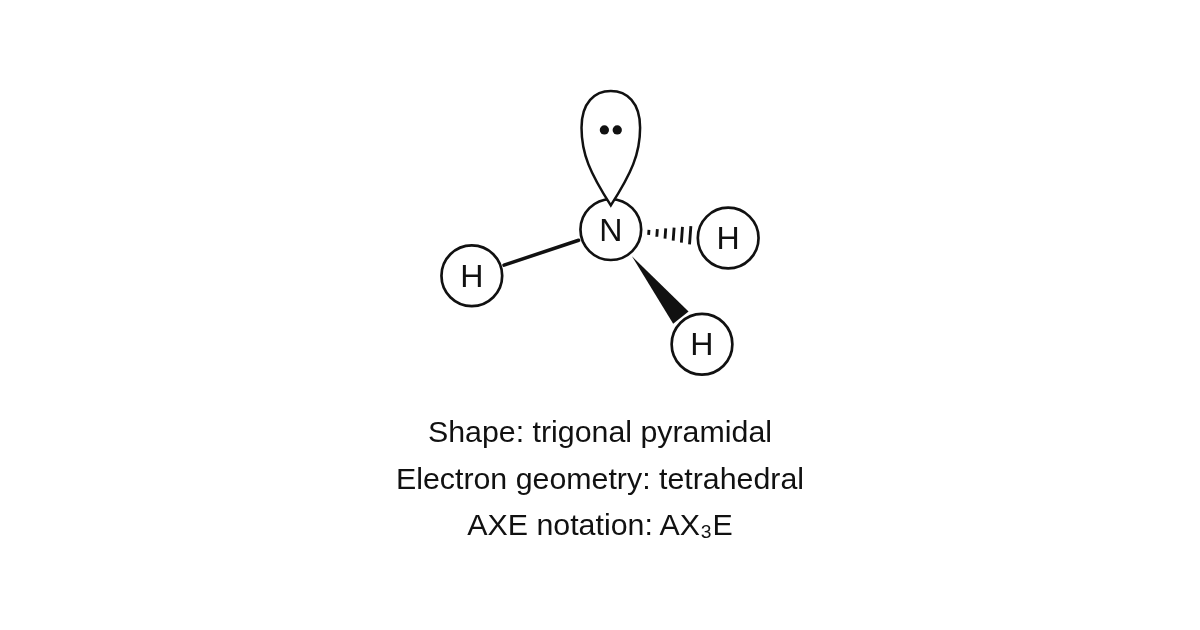
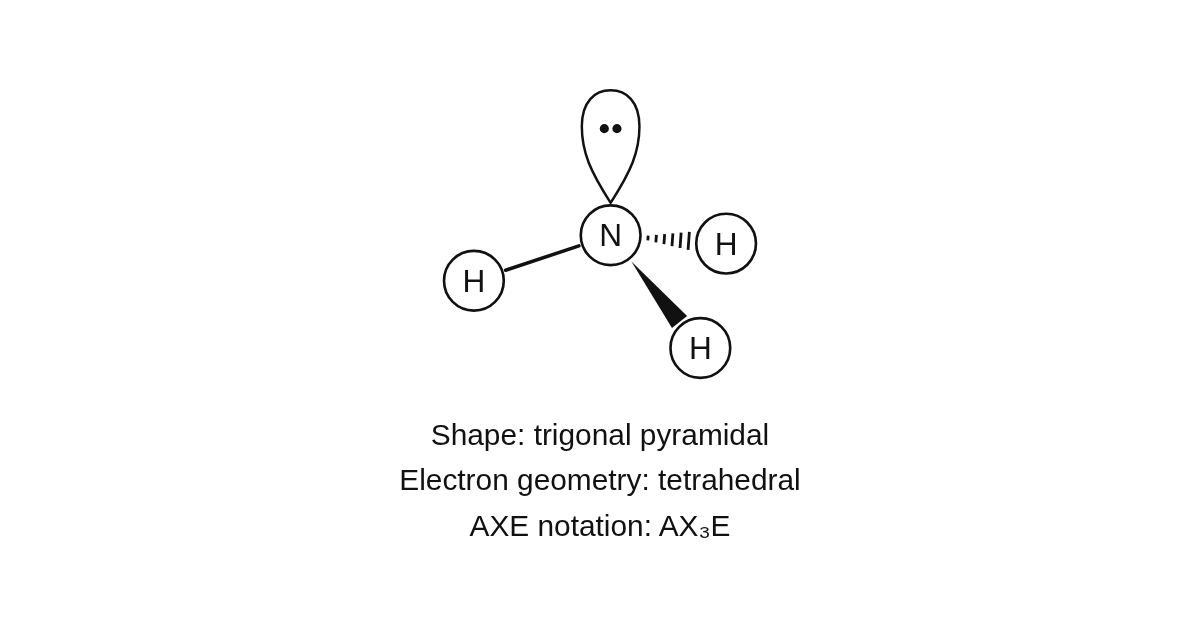
Chemistry Figures: VSEPR Shapes: lobe tips meet the central atom's outline, outer lone pairs laid out flat, and one symbol color per element in grayscale

diff --git a/apps/chemistry/src/lib/generators/vsepr-shapes/layout.ts b/apps/chemistry/src/lib/generators/vsepr-shapes/layout.ts
@@ -96,26 +96,6 @@ const dot = (a: Vec, b: Vec) => a[0] * b[0] + a[1] * b[1] + a[2] * b[2]
 const norm = (v: Vec) => scale(v, 1 / Math.hypot(...v))
 const cross = (a: Vec, b: Vec): Vec => [a[1] * b[2] - a[2] * b[1], a[2] * b[0] - a[0] * b[2], a[0] * b[1] - a[1] * b[0]]
 
-/** Two unit vectors at right angles to `u` and each other. */
-function across(u: Vec): [Vec, Vec] {
-  const helper: Vec = Math.abs(u[1]) < 0.9 ? [0, 1, 0] : [1, 0, 0]
-  const p = norm(cross(u, helper))
-  return [p, cross(u, p)]
-}
-
-/** The directions of an outer atom's lone pairs: pointing away from the
- *  central atom, spread round the bond as a tetrahedron's corners are. */
-function outerPairDirs(away: Vec, n: number): Vec[] {
-  if (n === 1) return [away]
-  const [p, q] = across(away)
-  const cone = Math.cos(70.5 * deg)
-  const side = Math.sin(70.5 * deg)
-  return Array.from({ length: n }, (_, i) => {
-    const t = (i / n) * 2 * Math.PI + Math.PI / 2
-    return norm(add(scale(away, cone), add(scale(p, side * Math.cos(t)), scale(q, side * Math.sin(t)))))
-  })
-}
-
 /** The page directions (as angles) to draw lone pairs in: each the way it
  *  points as seen, then pushed round until it is at least 40° from every bond
  *  and 60° from every other lone pair. One seen end on starts in the widest gap
@@ -210,14 +190,22 @@ export function layoutFigure(s: VseprSettings, structure: Structure, shape: Vsep
     pieces.push({ kind: 'bond', z: centerZ / 2, from, to, order: g.order, depth, width: sizeAt(centerZ / 2), balls, ends })
 
     if (s.outerPairs) {
+      // Flat on the page, as in a Lewis structure: spread round the side of
+      // the atom facing away from its bond, just outside its outline, and on
+      // top of it: three pairs 90° apart, at the sides and the end; two 120°
+      // apart, as round a double-bonded O.
       const lone = structure.atoms[g.atom].lone
-      const dirs = outerPairDirs(u, Math.ceil(lone / 2))
-      dirs.forEach((d, i) => {
-        const p = add(c, scale(d, r + 7))
-        const at = project(p)
+      const n = Math.ceil(lone / 2)
+      const m = Math.hypot(x, y)
+      const away = m < 1 ? -Math.PI / 2 : Math.atan2(y, x)
+      const step = n >= 3 ? Math.PI / 2 : (2 * Math.PI) / 3
+      for (let i = 0; i < n; i++) {
+        const a = away + (i - (n - 1) / 2) * step
+        const d: Point = [Math.cos(a), Math.sin(a)]
+        const at: Point = [x + d[0] * (r + 7), y + d[1] * (r + 7)]
         const electrons = i < Math.floor(lone / 2) ? 2 : 1
-        pieces.push({ kind: 'dots', z: p[2] + (d[2] > 0 ? r : 0), dots: pairAt(at, [d[0], d[1]], electrons) })
-      })
+        pieces.push({ kind: 'dots', z: centerZ + r + 0.5, dots: pairAt(at, d, electrons) })
+      }
     }
   }
 
@@ -237,11 +225,14 @@ export function layoutFigure(s: VseprSettings, structure: Structure, shape: Vsep
         pieces.push({ kind: 'dots', z, dots: pairAt(at, dir, g.electrons) })
         return
       }
-      // A balloon pointed at the central atom: its tip just inside the
-      // atom's outline, so it always touches it, swelling to a round end.
+      // A balloon pointed at the central atom, always touching it, swelling
+      // to a round end.
       const length = look.bond * 0.78
       const wide = look.bond * 0.2
-      const tip: Point = [dir[0] * rc * 0.8, dir[1] * rc * 0.8]
+      // Ball-and-stick: tucked into the ball. Wedge-and-dash: on the circle's
+      // outline, the two lines (each 1.5 wide) just meeting.
+      const reach = s.style === 'ball-and-stick' ? rc * 0.8 : rc + 1.5
+      const tip: Point = [dir[0] * reach, dir[1] * reach]
       const at = (t: number): Point => [tip[0] + dir[0] * length * t, tip[1] + dir[1] * length * t]
       const [x, y] = at(0.66)
       pieces.push({ kind: 'lobe', z, tip, length, x, y, rx: length * 0.34, ry: wide, angle: angles[i] / deg, dots: pairAt([x, y], dir, g.electrons) })

diff --git a/apps/chemistry/src/lib/generators/vsepr-shapes/VseprFigure.svelte b/apps/chemistry/src/lib/generators/vsepr-shapes/VseprFigure.svelte
@@ -181,7 +181,7 @@
                 text-anchor="middle"
                 font-size={Math.min(SYMBOL_FONT, p.r * 0.95)}
                 font-weight="700"
-                fill={lightness(shade(fill, -shadow(p.near))) > 0.55 ? INK : '#fff'}>{p.element}</text
+                fill={lightness(fill) > 0.55 ? INK : '#fff'}>{p.element}</text
               >
             {/if}
           {:else}
@@ -260,6 +260,7 @@
             fill-opacity={ball ? 0.9 : 1}
             stroke={ball ? (s.grayscale ? '#8a8a8a' : '#7f93b8') : INK}
             stroke-width="1.4"
+            stroke-linejoin="round"
           />
           {#each p.dots as [x, y], j (j)}<circle cx={x} cy={y} r="2.6" fill={INK} />{/each}
         {:else}
